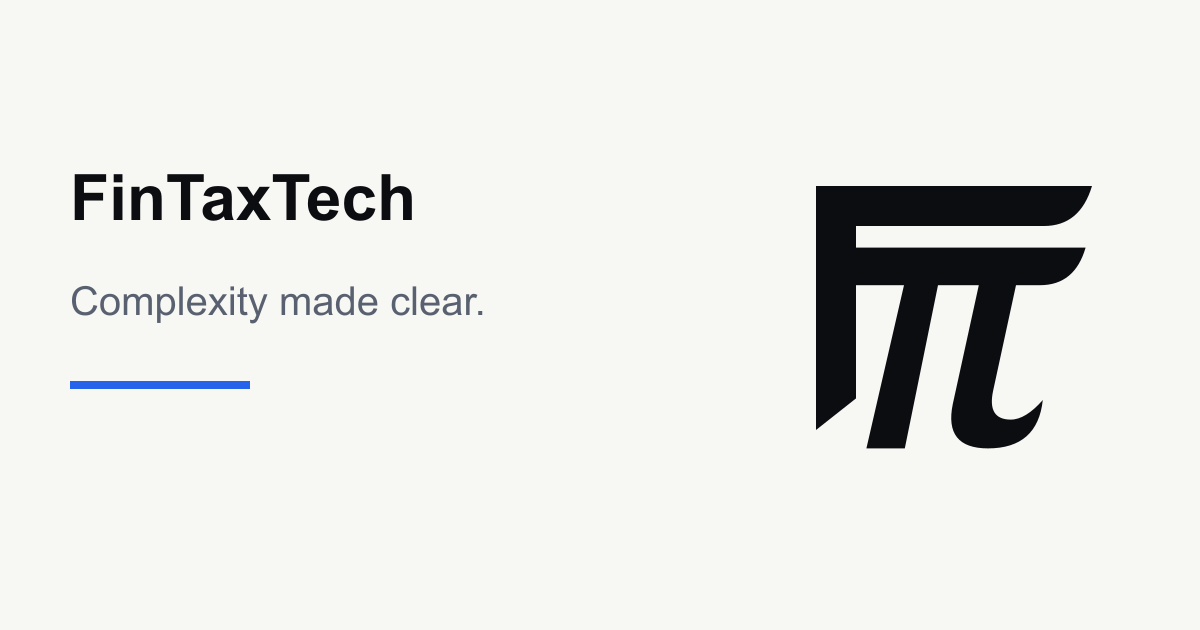
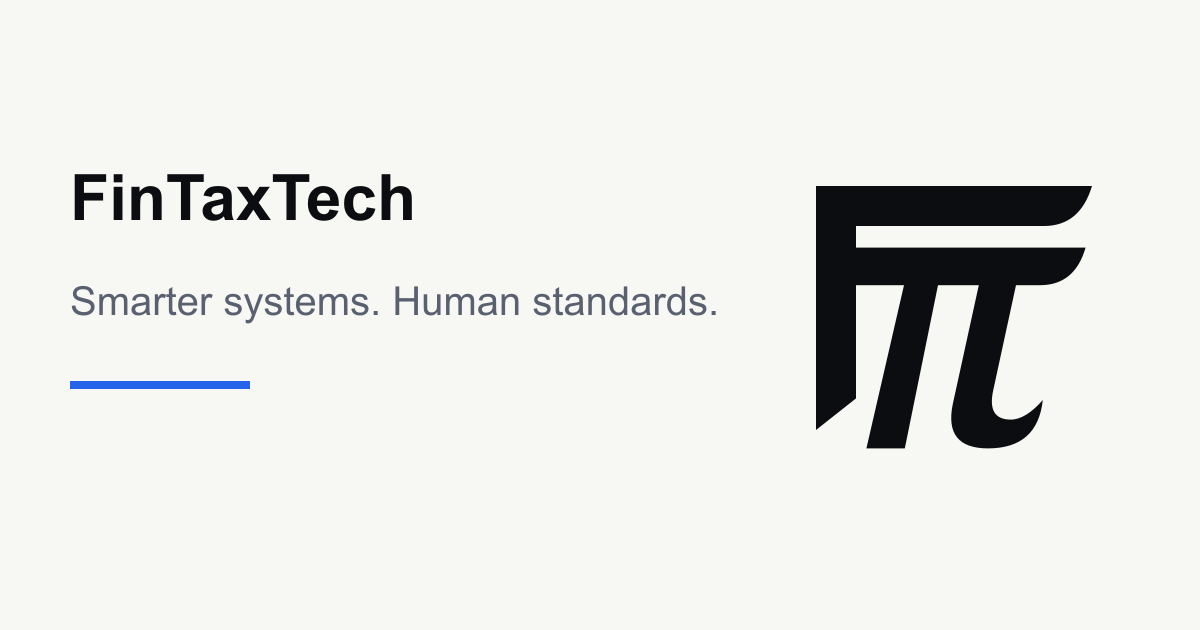
Update tagline

Changed region(s): [[0.0617, 0.4524, 0.5858, 0.5127]]

diff --git a/src/content/site.ts b/src/content/site.ts
@@ -1,8 +1,8 @@
-import { blogCopy } from './blog';
+import { blogCopy } from './blog.ts';
 export const company = {
   name: 'FinTaxTech',
   legal: 'Fintaxtech Ltd',
-  tagline: 'Complexity made clear.',
+  tagline: 'Smarter systems. Human standards.',
   email: 'ask@fintaxtech.co.uk',
   phone: '+44 7442 906018',
   whatsapp: '447442906018',
@@ -12,7 +12,7 @@ export const company = {
   response: 'We aim to reply within two UK business days.',
   url: 'https://fintaxtech.co.uk',
   description:
-    'FinTaxTech is the trading name of Fintaxtech Ltd (SC807896), a website, mobile app, branding and AI automation business based in Dundee, Scotland, working remotely with clients across the UK and worldwide.',
+    'FinTaxTech is a digital agency based in Dundee, Scotland. It provides branding and graphic design, website development, mobile app development and AI automation to clients across the UK and internationally. People set project requirements and review AI-assisted work before delivery.',
   registryName: 'Companies House',
   registryURL: 'https://find-and-update.company-information.service.gov.uk/company/SC807896',
 };
@@ -73,7 +73,7 @@ export const navigation = [
 export const home = {
   title: 'Branding, websites, mobile apps and AI automation—made clear.',
   intro:
-    'Tell us what you want to achieve. Our guided questions help you explain your project—even if you do not know the technical terms.',
+    'We design brands and graphics, build websites and mobile apps, and automate business tasks with AI. Tell us what you need. We’ll help you define the brief and check the finished work against it.',
   serviceArea: 'Based in Dundee, Scotland. Working with businesses across the UK and worldwide.',
   why: 'Why FinTaxTech',
   whyTitle: 'A capable partner asking clear questions.',
@@ -123,11 +123,11 @@ export const home = {
     ],
     [
       'How do you use AI?',
-      'AI supports our work, with human review and refinement. We do not sell our internal prompts or promise trademark exclusivity.',
+      'We use AI to help draft, design and build from an agreed brief. A person reviews the output, makes revisions and checks the final work against your requirements. FinTaxTech takes responsibility for delivery.',
     ],
     [
       'What happens after I create the PDF?',
-      'Download it and attach it to an email or WhatsApp message. Nothing is sent automatically. We aim to respond within two UK business days.',
+      'You can download the PDF for your records or attach it to an email or WhatsApp message. When you generate a project enquiry PDF, the site can also send FinTaxTech your contact details and enquiry answers.',
     ],
   ],
 };

diff --git a/src/lib/seo.ts b/src/lib/seo.ts
@@ -3,7 +3,7 @@ import { mobileAppGallery } from '../content/mobile-app-templates';
 import { industryDirectory } from '../content/automation-industries';
 import { brandingGallery, logoGallery } from '../content/branding-gallery';
 import { locationFromPath } from '../content/locations';
-import { company, ui } from '../content/site';
+import { company, home, ui } from '../content/site';
 import { seoPages } from '../content/seo';
 import { publicProfiles } from '../content/social';
 import { services } from '../content/services';
@@ -85,6 +85,7 @@ export function structuredData(
   const kit = showcase.find((entry) => entry.url === path);
   const isShowcaseIndex = path === showcaseIndex.route;
   const isPricing = path === '/pricing/';
+  const pageFaqs = isPricing ? pricingFaqs : path === '/' ? home.faqs : undefined;
   return {
     '@context': 'https://schema.org',
     '@graph': [
@@ -93,6 +94,7 @@ export function structuredData(
         '@id': organization,
         name: company.name,
         legalName: company.legal,
+        slogan: company.tagline,
         description: company.description,
         identifier: {
           '@type': 'PropertyValue',
@@ -123,6 +125,7 @@ export function structuredData(
         '@id': website,
         url: absoluteURL('/'),
         name: company.name,
+        description: company.description,
         publisher: { '@id': organization },
         inLanguage: 'en',
       },
@@ -132,7 +135,7 @@ export function structuredData(
             ? 'AboutPage'
             : isShowcaseIndex
               ? 'CollectionPage'
-              : isPricing
+              : pageFaqs
                 ? ['WebPage', 'FAQPage']
                 : 'WebPage',
         '@id': url + '#webpage',
@@ -156,10 +159,10 @@ export function structuredData(
         ...(isShowcaseIndex
           ? { mainEntity: [{ '@id': url + '#client-projects' }, { '@id': url + '#kits' }] }
           : {}),
-        ...(isPricing
+        ...(isPricing ? { about: { '@id': url + '#packages' } } : {}),
+        ...(pageFaqs
           ? {
-              about: { '@id': url + '#packages' },
-              mainEntity: pricingFaqs.map(([name, text]) => ({
+              mainEntity: pageFaqs.map(([name, text]) => ({
                 '@type': 'Question',
                 name,
                 acceptedAnswer: { '@type': 'Answer', text },

diff --git a/src/content/seo.ts b/src/content/seo.ts
@@ -35,11 +35,11 @@ import { pages } from './pages';
 import { pricingCopy } from './pricing';
 import { blogCopy } from './blog';
 import { services } from './services';
-import { contactRedirect, ui } from './site';
+import { company, contactRedirect, ui } from './site';
 import { showcase, showcaseIndex, workRedirects } from '../data/showcase';
 import { featuredWork } from './work';
 export const seoCopy = {
-  imageAlt: 'FinTaxTech — Complexity made clear.',
+  imageAlt: `${company.name} — ${company.tagline}`,
   breadcrumbs: 'Breadcrumb',
   related: 'Explore our services',
   appPolicies: 'App privacy and terms',
@@ -248,9 +248,8 @@ export const seoPages: Record<string, PageSEO> = {
     ]),
   ),
   '/': {
-    title: 'Branding, Websites, Mobile Apps & AI Automation | Dundee, Scotland',
-    description:
-      'FinTaxTech is a Dundee, Scotland agency creating branding, websites, mobile apps and AI automations for businesses across Scotland, the UK and worldwide, with a clear written proposal.',
+    title: 'Branding, Web & Mobile App Development and AI Automation in Dundee',
+    description: `Dundee digital agency for branding, websites, mobile apps and AI automation. Human-reviewed work for UK and international clients. ${company.tagline}`,
   },
   '/services/': {
     title: 'Branding, Websites, Mobile Apps & AI Automation | Dundee',
@@ -296,7 +295,7 @@ export const seoPages: Record<string, PageSEO> = {
   '/start/': {
     title: 'Start Your Brand, Website, App or Automation Project',
     description:
-      'Choose a FinTaxTech service, answer structured questions and create a private enquiry PDF to download and share manually by email or WhatsApp.',
+      'Choose a FinTaxTech service and answer structured questions about your project. Prepare an enquiry for personal review and download a PDF for your records.',
   },
   '/enquiry/': {
     title: 'Prepare Your Private Project Enquiry',

diff --git a/src/content/pages.ts b/src/content/pages.ts
@@ -109,16 +109,16 @@ export const pages: Record<string, InfoPage> = {
         'Our mark brings an F and two T forms together as π: precision, continuity, and making complex problems clear.',
       ],
       [
-        'AI-first. Human judgement throughout.',
-        'We use AI to support the process, then review and refine the work. A clear brief, deliberate decisions, and human accountability guide delivery.',
+        `What does “${company.tagline}” mean?`,
+        'We agree the requirements and quality standards with you. Structured processes and AI tools help us do the work. A person reviews the decisions, refines the results and checks the final delivery against your brief.',
       ],
       [
         'Your project, your business accounts',
         'We work remotely with customers worldwide. Your repository, domain, email, analytics, store, and cloud accounts stay in your name.',
       ],
       [
-        'Fintaxtech Ltd',
-        'Company SC807896. Incorporated 22 April 2024. Registered office: 79 Yarrow Terrace, Dundee, Scotland, DD2 4DX. Information technology consultancy activities.',
+        company.legal,
+        'FinTaxTech is the trading name of Fintaxtech Ltd, company SC807896. Incorporated 22 April 2024. Registered office: 79 Yarrow Terrace, Dundee, Scotland, DD2 4DX. Information technology consultancy activities.',
       ],
     ],
   },

diff --git a/tests/company-identity.test.ts b/tests/company-identity.test.ts
@@ -19,6 +19,7 @@ describe('company identity and discovery', () => {
       name: company.name,
       legalName: company.legal,
       description: pages.about.intro,
+      slogan: company.tagline,
       identifier: {
         '@type': 'PropertyValue',
         propertyID: 'Companies House',
@@ -36,7 +37,13 @@ describe('company identity and discovery', () => {
     const summary = await (await getLLMS()).text();
     for (const location of locations)
       expect(summary).toContain(`[${location.name}](${location.canonical})`);
-    for (const value of [company.name, company.legal, company.number, company.registryURL])
+    for (const value of [
+      company.description,
+      company.tagline,
+      company.legal,
+      company.number,
+      company.registryURL,
+    ])
       expect(summary).toContain(value);
     for (const profile of publicProfiles) expect(summary).toContain(profile.url);
     const links = [...summary.matchAll(/\]\((https:[^)]+)\)/g)].map((match) => new URL(match[1]));

diff --git a/src/content/start.ts b/src/content/start.ts
@@ -1,6 +1,6 @@
 export const startCopy = {
   process:
-    'Review your answers and generate a private enquiry PDF in your browser. Download it, then attach it yourself to an email or WhatsApp message when you are ready. Nothing is sent automatically.',
+    'Tell us what you want to achieve so a person can review your requirements. Generating your enquiry PDF can also send FinTaxTech your contact details and answers. You can download the PDF and share a copy by email or WhatsApp.',
   privacy:
     'Your answers stay in memory while the questionnaire is open. Closing or reloading it clears them; download the PDF if you want to keep a copy. Preparing an enquiry creates no contract or payment obligation.',
 };

diff --git a/src/pages/llms.txt.ts b/src/pages/llms.txt.ts
@@ -1,5 +1,6 @@
 import { appIndexText } from '../lib/app-llms';
 import { absoluteURL } from '../lib/seo';
+import { company } from '../content/site';
 import summary from '../content/llms.txt?raw';
 import { locations } from '../content/locations';
 import { pricingSummaryText } from '../content/pricing';
@@ -43,6 +44,8 @@ export async function GET() {
 
   return new Response(
     `${summary
+      .replace('{{COMPANY_DESCRIPTION}}', company.description)
+      .replace('{{COMPANY_TAGLINE}}', company.tagline)
       .replace('{{PUBLISHED_APPS}}', appIndexText())
       .replace('{{PRICING}}', pricingSummaryText())
       .trimEnd()}\n\n${work}\n\n${areas}\n\n${articles}\n`,

diff --git a/tests/browser/start-sales.spec.ts b/tests/browser/start-sales.spec.ts
@@ -51,7 +51,9 @@ for (const theme of ['light', 'dark'] as const) {
     await expect(staticPage.locator('h1')).toHaveText(selectorCopy.title);
     await expect(staticPage.locator('.service-card')).toHaveCount(4);
     await expect(
-      staticPage.getByText(/Review your answers and generate a private enquiry PDF/),
+      staticPage.getByText(
+        /Generating your enquiry PDF can also send FinTaxTech your contact details and answers/,
+      ),
     ).toBeVisible();
     await expect(staticPage.locator('#questionnaire')).toHaveCount(0);
     await context.close();

diff --git a/src/content/project-assistant.ts b/src/content/project-assistant.ts
@@ -8,6 +8,8 @@ export const assistantCopy = {
   dismissInvitation: 'Dismiss Project Assistant invitation',
   title: `${company.name} Project Assistant`,
   welcome: 'What would you like help with?',
+  introduction:
+    'Find a service, explore prices or send your project requirements to FinTaxTech for a personal review.',
   pricing: 'Get a price estimate',
   work: 'View previous work',
   project: 'Discuss a project',

diff --git a/src/content/work.ts b/src/content/work.ts
@@ -88,9 +88,6 @@ export const featuredWork = {
         'Typography',
       ],
     ],
-    cardAlt:
-      'Ask Appliance Repairs business card: the logo on the front, and the founder’s name, phone number, website, Facebook page and a QR code on the back.',
-    cardCaption: 'Business card, front and back',
   },
   automation: {
     title: 'AI automation: blog articles from reviews and job photos',

diff --git a/src/lib/project-assistant-flow.ts b/src/lib/project-assistant-flow.ts
@@ -27,6 +27,7 @@ export const assistantScreens: AssistantScreen[] = [
   {
     id: 'home',
     heading: c.welcome,
+    description: c.introduction,
     choices: [
       { label: c.pricing, next: 'pricing' },
       { label: c.work, next: 'work' },
